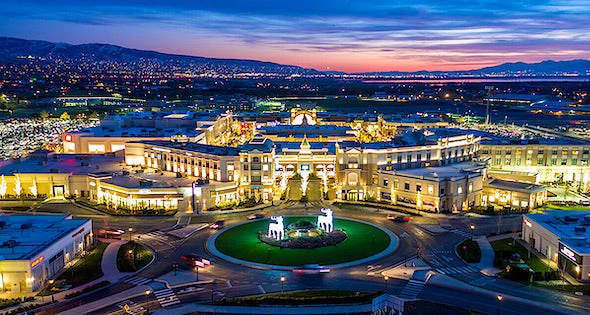
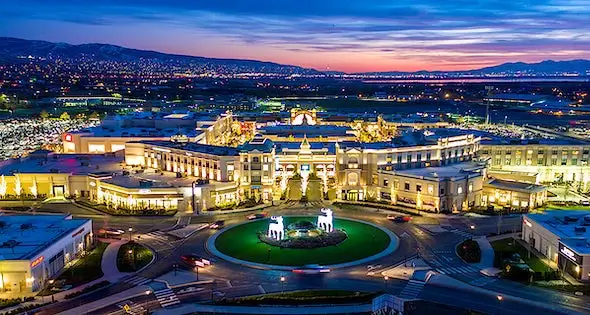
Page weight downsizing.

diff --git a/chamber/discover.html b/chamber/discover.html
@@ -108,10 +108,11 @@
             <h2>Sights & Attractions</h2>
             <div class="gallery-card">
                 <picture>
-                    <source media="(max-width: 767px)" srcset="images/placeholder-550x369.webp" data-srcset="images/lagoon-amusement-park-small-550x369-compressed.webp">
+                    <!-- Muting below for the sake of page weight. -->
+                    <!-- <source media="(max-width: 767px)" srcset="images/placeholder-550x369.webp" data-srcset="images/lagoon-amusement-park-small-550x369-compressed.webp">
                     <source media="(max-width: 1023px)" srcset="images/placeholder-768x515.webp" data-srcset="images/lagoon-amusement-park-medium-768x515-compressed.webp">
-                    <source media="(max-width: 1099px)" srcset="images/placeholder-1000x671.webp" data-srcset="images/lagoon-amusement-park-large-1000x671-compressed.webp">
-                    <img src="images/placeholder-960x644.webp" data-src="images/lagoon-amusement-park-960x644-compressed.webp" alt="A family riding a roller coater at Lagoon.">
+                    <source media="(max-width: 1099px)" srcset="images/placeholder-1000x671.webp" data-srcset="images/lagoon-amusement-park-large-1000x671-compressed.webp"> -->
+                    <img src="images/placeholder-650x436.webp" data-src="images/lagoon-amusement-park-medium-650x436.webp" alt="A family riding a roller coater at Lagoon.">
                 </picture>
                 <p class="gallery-p">
                     Lagoon - Utah’s only theme park 
@@ -131,7 +132,7 @@
             </div>
             <div class="gallery-card">
                 <picture>
-                    <img src="images/placeholder-750x500.webp" data-src="images/main-street-farmington-750x500.webp" alt="Looking south down Main Street in Farmington.">
+                    <img src="images/placeholder-650x433.webp" data-src="images/main-street-farmington-650x433.webp" alt="Looking south down Main Street in Farmington.">
                 </picture>
                 <p class="gallery-p">
                     Historic Main Street - the

diff --git a/chamber/scripts/lazyLoader.js b/chamber/scripts/lazyLoader.js
@@ -32,36 +32,38 @@ if ('IntersectionObserver' in window) {
     });
 };
 // //////////////////////////////////////////////////////////////////////////
-const imagesToLoad3 = document.querySelectorAll('source[data-srcset]');
 
-const options3 = {
-    // root: document.querySelector('main'),
-    threshold: 1.0,
-    rootMargin: '0px 0px 0px 0px'
-};
+// Muting below for the sake of page weight.
+// const imagesToLoad3 = document.querySelectorAll('source[data-srcset]');
 
-const loadImages3 = (image) => {
-    image.setAttribute('srcset', image.getAttribute('data-srcset'));
-    image.onload = () => {
-        image.removeAttribute('data-srcset');
-    };
-};
+// const options3 = {
+//     // root: document.querySelector('main'),
+//     threshold: 1.0,
+//     rootMargin: '0px 0px 0px 0px'
+// };
 
-if ('IntersectionObserver' in window) {
-    const observer = new IntersectionObserver((items, observer) => {
-        items.forEach((item) => {
-            if (item.isIntersecting) {
-                loadImages3(item.target);
-                observer.unobserve(item.target);
-            }
-        });
-    }, options3);
+// const loadImages3 = (image) => {
+//     image.setAttribute('srcset', image.getAttribute('data-srcset'));
+//     image.onload = () => {
+//         image.removeAttribute('data-srcset');
+//     };
+// };
 
-    imagesToLoad3.forEach((img) => {
-        observer.observe(img);
-    });
-} else {
-    imagesToLoad3.forEach((img) => {
-        loadImages3(img);
-    });
-};
+// if ('IntersectionObserver' in window) {
+//     const observer = new IntersectionObserver((items, observer) => {
+//         items.forEach((item) => {
+//             if (item.isIntersecting) {
+//                 loadImages3(item.target);
+//                 observer.unobserve(item.target);
+//             }
+//         });
+//     }, options3);
+
+//     imagesToLoad3.forEach((img) => {
+//         observer.observe(img);
+//     });
+// } else {
+//     imagesToLoad3.forEach((img) => {
+//         loadImages3(img);
+//     });
+// };
